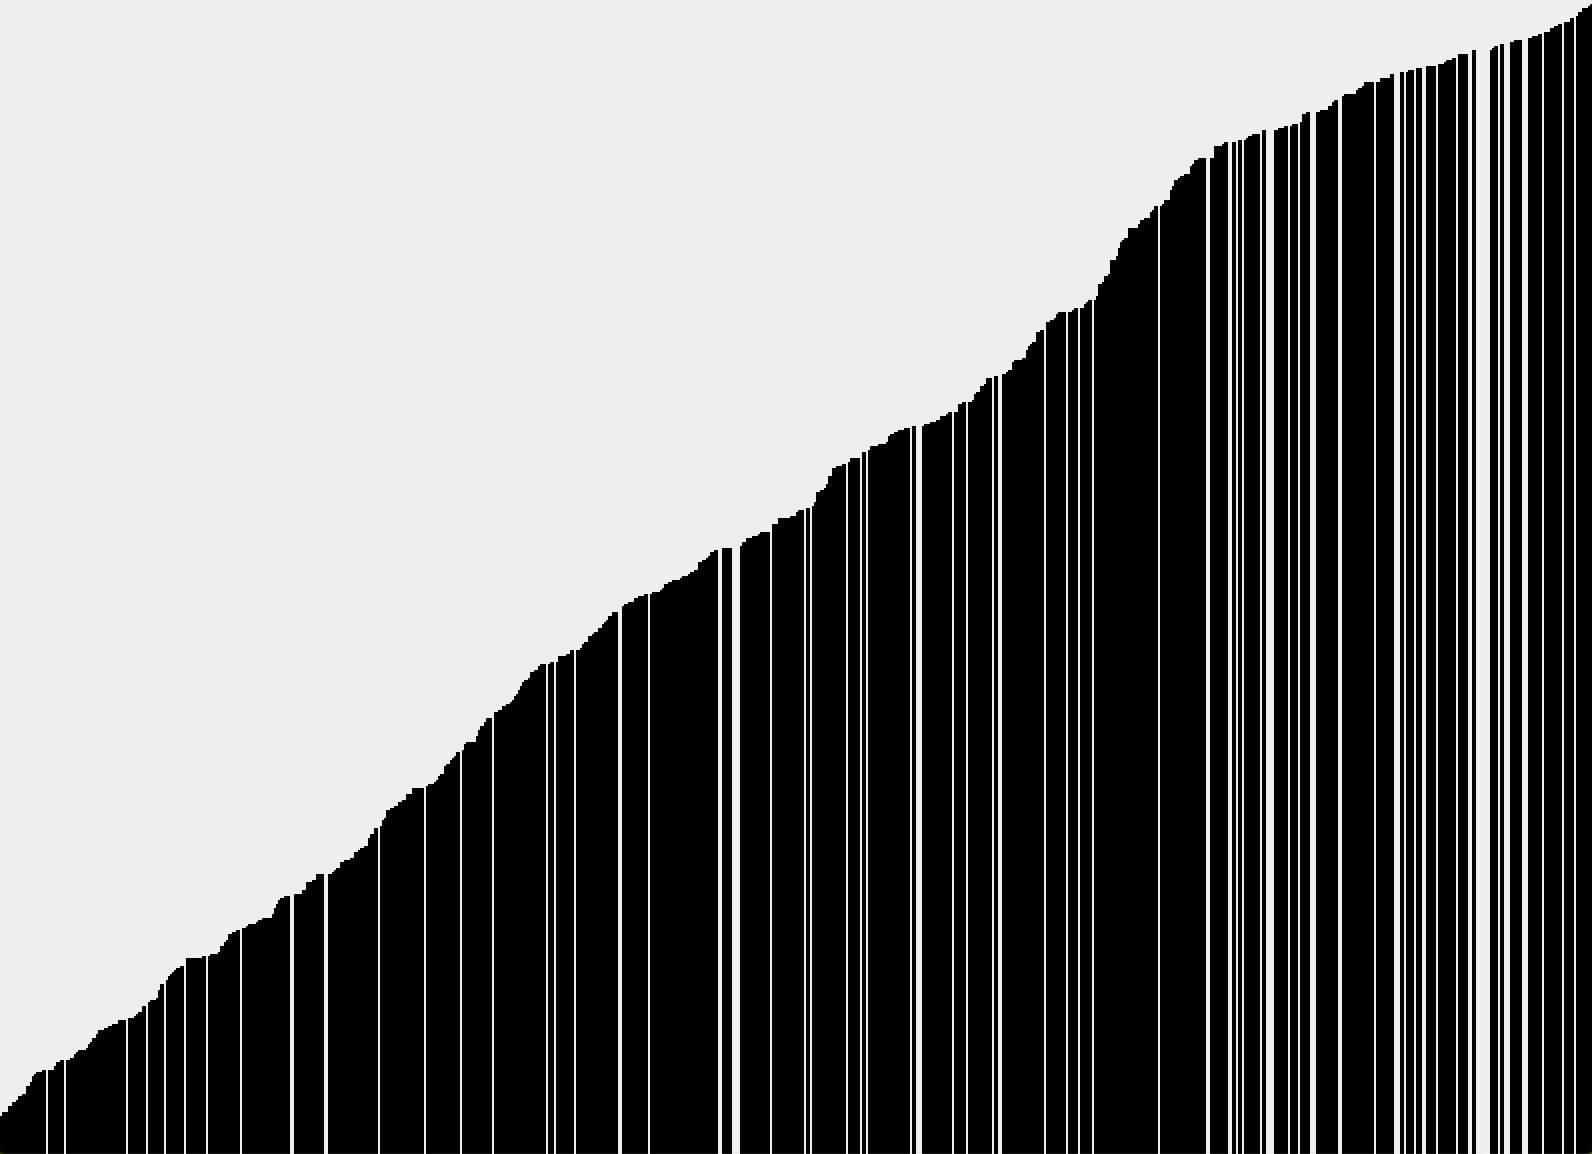
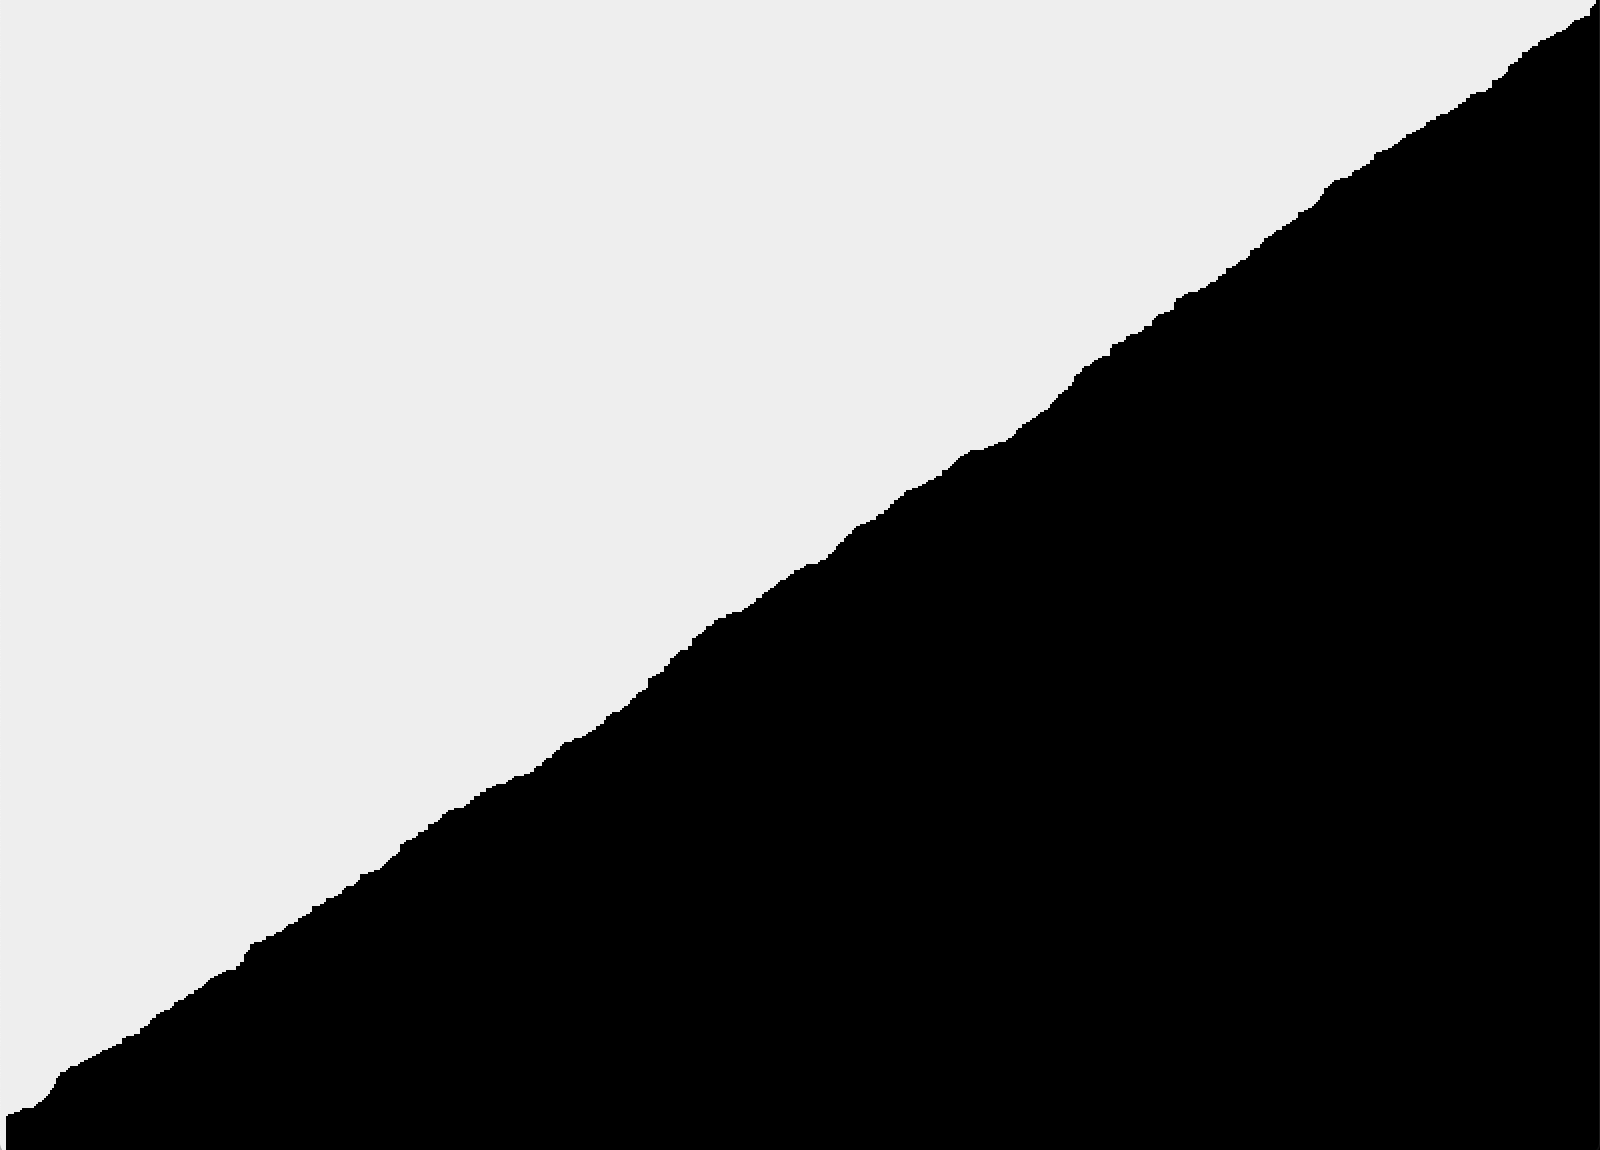
everything is smoother nwo

Changed region(s): [[0.0, 0.0, 1.0, 1.0]]

diff --git a/src/SortingVisual.java b/src/SortingVisual.java
@@ -13,7 +13,7 @@ public class SortingVisual implements ActionListener, KeyListener {
     JFrame jFrame;
     RenderPanel renderpanel;
     Timer tim = new Timer(10, this);
-    public int points = 500, X,Y, ticks = 0;
+    public int points = 800, X,Y, ticks = 0;
     public Point[] p = new Point[points];
     public Point tmpP = new Point();
     public boolean start = false;
@@ -25,18 +25,14 @@ public class SortingVisual implements ActionListener, KeyListener {
             p[i] = new Point();
         }
         for (int i = 0; i < points; i++) {
-            X = rand.nextInt(800);
             Y = rand.nextInt(590);
             for (int j = 0; j < points; j++) {
-                if (p[j].x == X) {
-                    X = rand.nextInt(600);
-                }
                 if (p[j].x > p[j].y) {
                     Y = rand.nextInt(560);
                 }
             }
 
-            p[i].x = X;
+            p[i].x = i;
             p[i].y = Y;
 
         }
@@ -52,6 +48,9 @@ public class SortingVisual implements ActionListener, KeyListener {
         tim.start();
 
     }
+
+    public float px1 = 0;
+    public float px2 = 0;
 
     @Override
     public void actionPerformed(ActionEvent arg0) {

diff --git a/src/RenderPanel.java b/src/RenderPanel.java
@@ -10,7 +10,28 @@ public class RenderPanel extends JPanel {
         SortingVisual v = SortingVisual.visual;
 
         for (int i = 0 ; i < v.points - 1; i++) {
-                g.setColor(Color.black);
+
+            if (v.p[i].y < 70) {
+                    g.setColor(Color.red);
+                }
+            if (v.p[i].y >= 80 && v.p[i].y < 160) {
+                g.setColor(Color.orange);
+            }
+            if (v.p[i].y >= 160 && v.p[i].y < 240) {
+                g.setColor(Color.yellow);
+            }
+            if (v.p[i].y >= 240 && v.p[i].y < 320) {
+                g.setColor(Color.green);
+            }
+            if (v.p[i].y >= 320 && v.p[i].y < 400) {
+                g.setColor(Color.blue);
+            }
+            if (v.p[i].y >= 400 && v.p[i].y < 480) {
+                g.setColor(Color.cyan);
+            }
+            if (v.p[i].y >= 480 && v.p[i].y < 560) {
+                g.setColor(Color.MAGENTA);
+            }
                 g.fillRect(v.p[i].x,v.p[i].y,2,600);
             }
 
